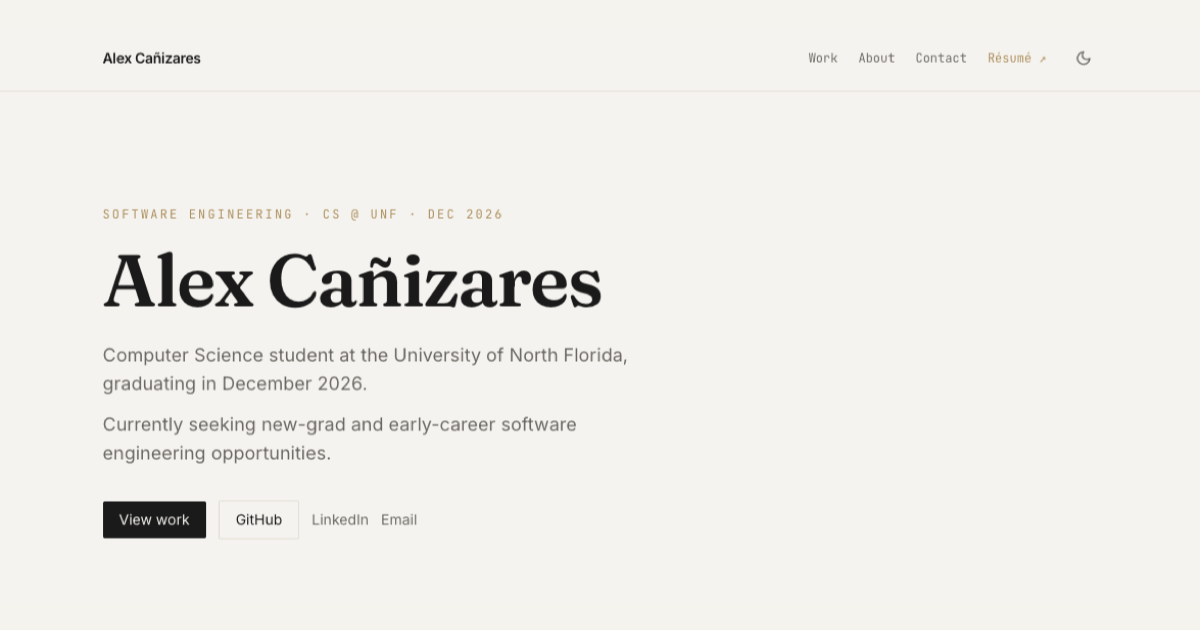
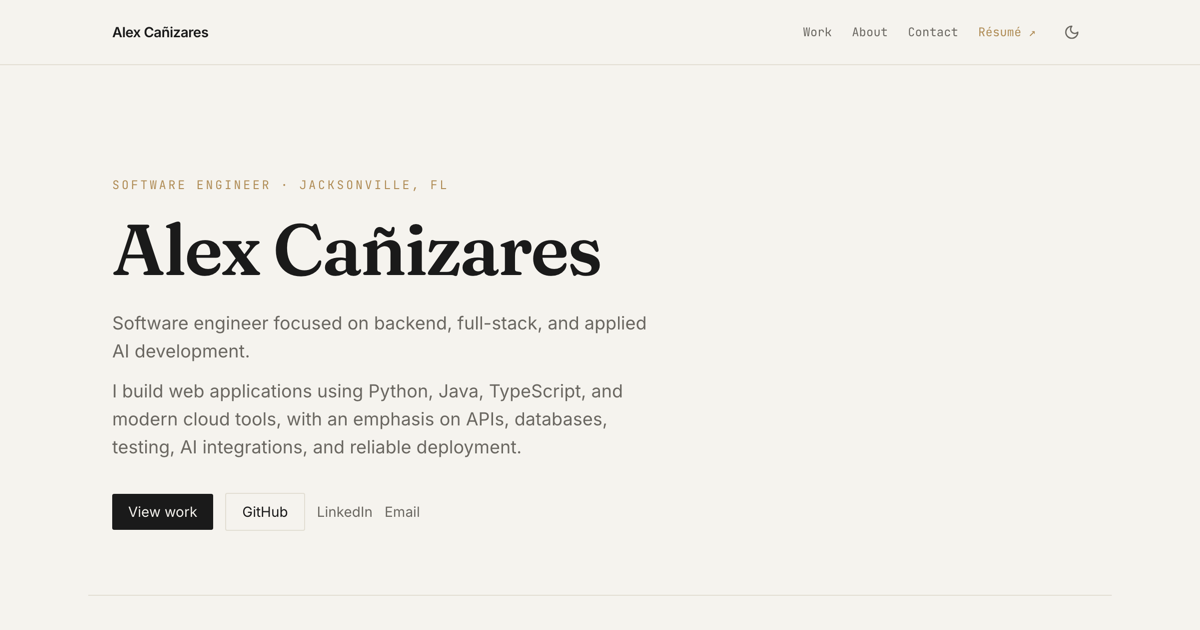
content: frame the portfolio around shipped, production work
AuraJewel now reads as a production app for a jewelry retailer with
tenant isolation. The hero eyebrow leads with role and location instead
of school and graduation date, Stockseer and Color Reader describe
deployed tools, and the Pylot case study names the role as sole
engineer. The link preview image was still the old student hero, so it
is re-captured from the current one with matching alt text.

diff --git a/lib/projects.ts b/lib/projects.ts
@@ -28,7 +28,7 @@ export const projects: Project[] = [
     num: "02",
     title: "AuraJewel",
     description:
-      "A web app a jewelry store uses every day to manage tickets, print receipts and email customers. It has user accounts and is built to host more stores, with Postgres row-level security keeping each store's data separate.",
+      "Production web application built for a jewelry retailer and used daily to manage service tickets, receipts, and customer communication. Designed for multi-store expansion with PostgreSQL row-level security providing tenant isolation.",
     tech: ["Next.js", "TypeScript", "Supabase", "Resend", "Tailwind", "Radix UI"],
     links: [{ label: "Code", href: "https://github.com/alexcm24/AuraJewel" }],
     image: "/media/aurajewel-thumbnail.jpg",
@@ -38,7 +38,7 @@ export const projects: Project[] = [
     num: "03",
     title: "Stockseer",
     description:
-      "Forecasts a stock's next-day price with a linear regression model trained on about two years of daily closing prices, and charts each prediction against the real price.",
+      "Deployed forecasting service: a FastAPI backend on Render trains a linear regression model on about two years of daily closing prices from the Twelve Data API and serves next-day predictions to a Next.js front end that charts each one against the actual price.",
     tech: ["Next.js", "TypeScript", "FastAPI", "scikit-learn", "Twelve Data"],
     links: [
       { label: "Live", href: "https://stockseer-three.vercel.app" },
@@ -52,7 +52,7 @@ export const projects: Project[] = [
     num: "04",
     title: "Color Reader",
     description:
-      "Pulls the main colors out of any image using k-means clustering in the CIE LAB color space, and gives each one a name and hex code. I built it with color-blind users in mind.",
+      "Accessibility tool for color-blind users that extracts the dominant colors from any image with k-means clustering in CIE LAB color space, then labels each one with a name and hex code.",
     tech: ["Next.js", "TypeScript", "Tailwind", "Color science"],
     links: [
       { label: "Live", href: "https://color-reader-one.vercel.app" },

diff --git a/app/work/pylot/page.tsx b/app/work/pylot/page.tsx
@@ -133,7 +133,7 @@ export default function PylotCaseStudy() {
               Enter a store, and a minute or two later you get a score out of 100 and a ranked list of fixes.
             </p>
             <dl className="mt-8 flex flex-wrap gap-x-10 gap-y-4 border-t border-line pt-6">
-              <Meta term="Role">Solo project</Meta>
+              <Meta term="Role">Sole engineer: design, build, deploy</Meta>
               <Meta term="Year">2026</Meta>
               <Meta term="Stack">React, FastAPI, Celery, Playwright, PostgreSQL, Redis, Railway</Meta>
               <Meta term="Live">
@@ -228,7 +228,7 @@ export default function PylotCaseStudy() {
             </Prose>
           </Section>
 
-          <Section title="What real stores taught me">
+          <Section title="Bugs real stores exposed">
             <Prose>
               <p>
                 The test suite was green, but scanning real stores and checking every result against the stores’ actual

diff --git a/lib/site.ts b/lib/site.ts
@@ -1,6 +1,6 @@
 export const SITE = {
   name: "Alex Cañizares",
-  eyebrow: "Software Engineering · CS @ UNF · Dec 2026",
+  eyebrow: "Software Engineer · Jacksonville, FL",
   intro: "Software engineer focused on backend, full-stack, and applied AI development.",
   summary:
     "I build web applications using Python, Java, TypeScript, and modern cloud tools, with an emphasis on APIs, databases, testing, AI integrations, and reliable deployment.",

diff --git a/README.md b/README.md
@@ -1,6 +1,6 @@
 # Alex Canizares — Developer Portfolio
 
-My personal portfolio showcasing the projects I've built, my technical skills, and my background as a Computer Science student at the University of North Florida.
+My personal portfolio showcasing the projects I've built, my technical skills, and my background as a software engineer focused on backend, full-stack, and applied AI development.
 
 **Live site:** [my-portfolio-alexcanizares.vercel.app](https://my-portfolio-alexcanizares.vercel.app/)
 
